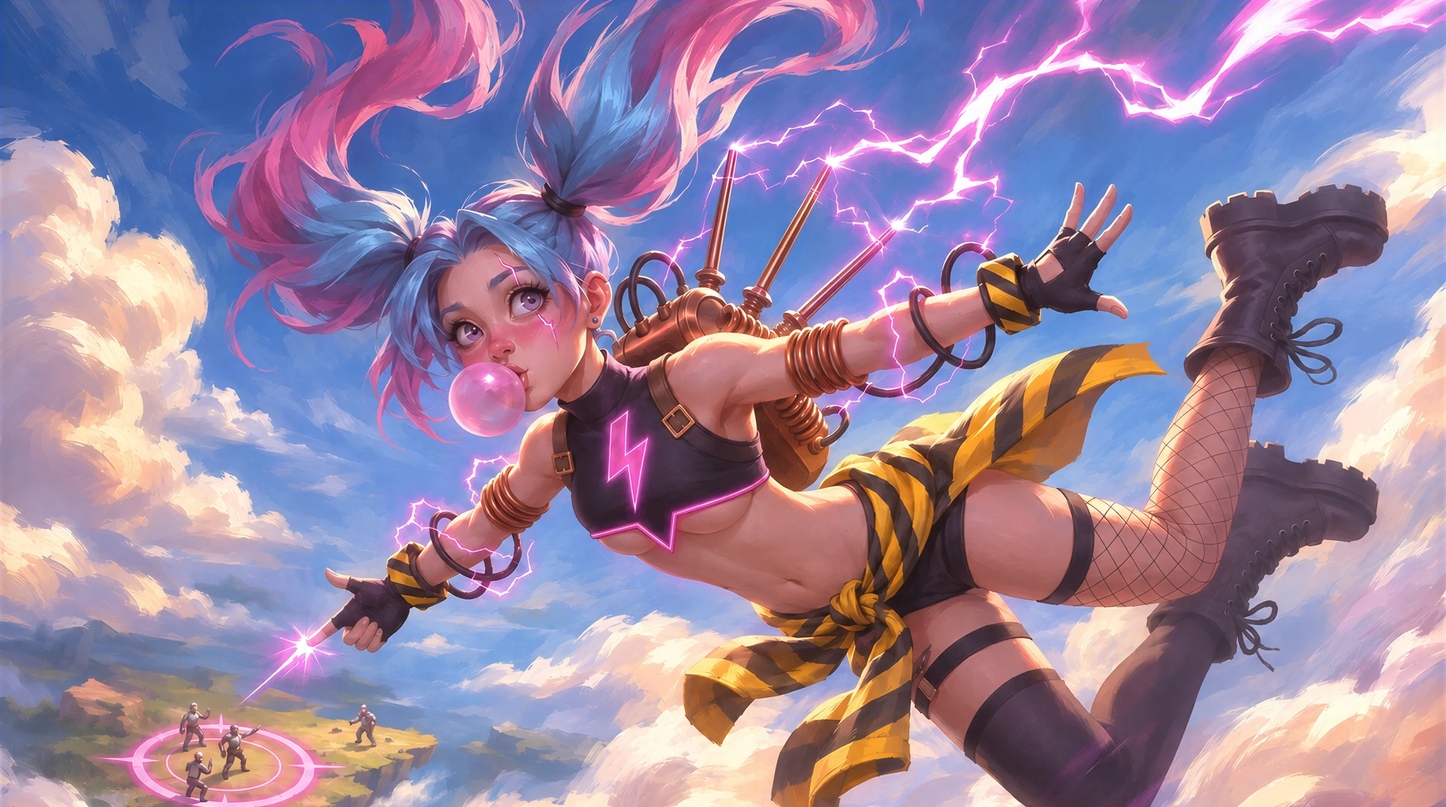
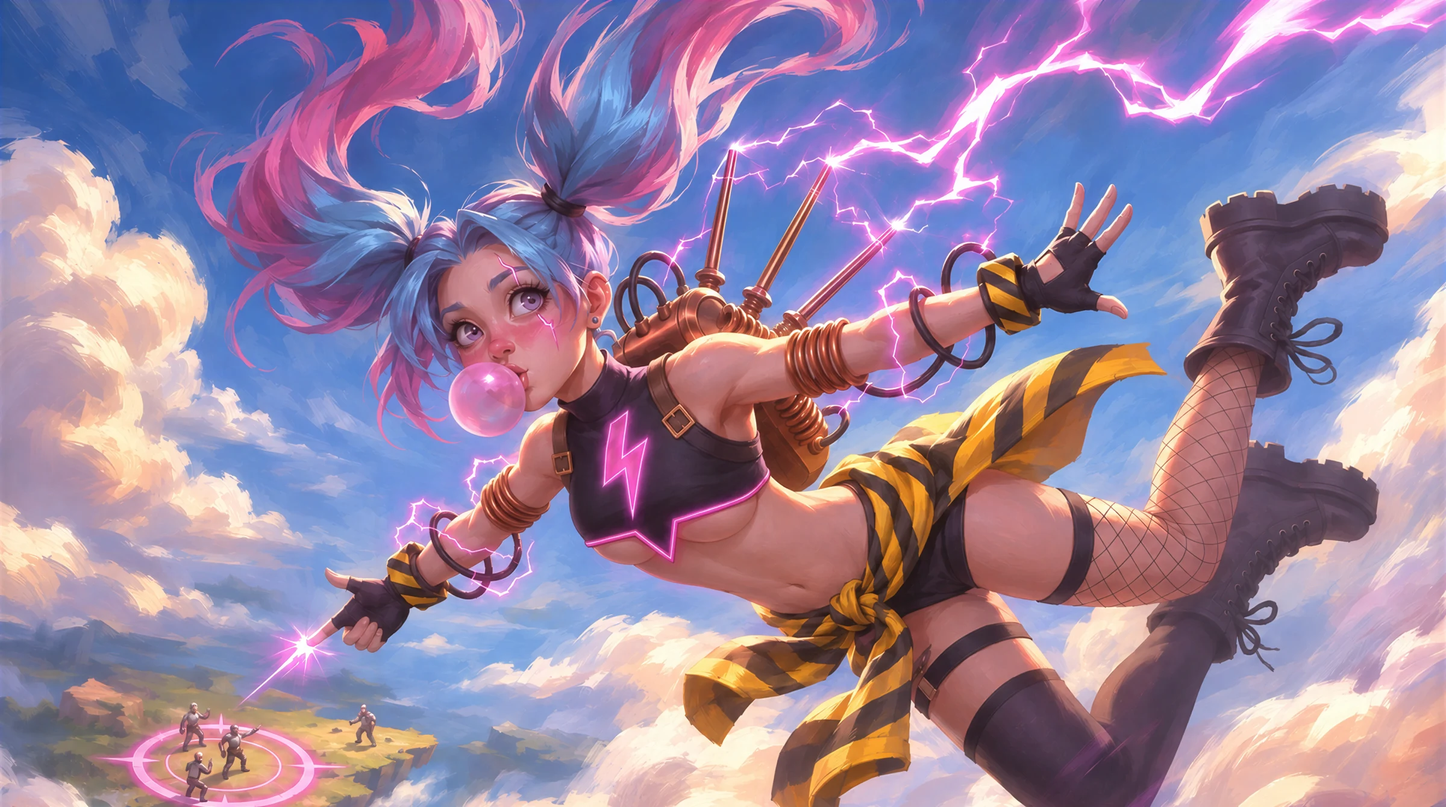
Hunter splash: Sparkle bust +5% (A, owner 11-14)
Claude-Session: https://claude.ai/code/session_01Fa986kEoxoUbsf7VZzVwQa

Changed region(s): [[0.375, 0.5201, 0.5312, 0.7343]]

diff --git a/presskit.html b/presskit.html
@@ -101,19 +101,19 @@
         </div>
         <h2>Hunter art</h2>
         <div class="pk-grid">
-          <a href="assets/img/hunters/lisette-2400.webp?v=2026-11-14x28" target="_blank"><img src="assets/img/hunters/lisette-960.webp?v=2026-11-14x28" alt="Lace splash art" loading="lazy"><span class="pk-cap">Lace</span></a>
-          <a href="assets/img/hunters/breaker-2400.webp?v=2026-11-14x28" target="_blank"><img src="assets/img/hunters/breaker-960.webp?v=2026-11-14x28" alt="Albert splash art" loading="lazy"><span class="pk-cap">Albert</span></a>
-          <a href="assets/img/hunters/vex-2400.webp?v=2026-11-14x28" target="_blank"><img src="assets/img/hunters/vex-960.webp?v=2026-11-14x28" alt="Vex splash art" loading="lazy"><span class="pk-cap">Vex</span></a>
-          <a href="assets/img/hunters/kael-2400.webp?v=2026-11-14x28" target="_blank"><img src="assets/img/hunters/kael-960.webp?v=2026-11-14x28" alt="Kael splash art" loading="lazy"><span class="pk-cap">Kael</span></a>
-          <a href="assets/img/hunters/claire-2400.webp?v=2026-11-14x28" target="_blank"><img src="assets/img/hunters/claire-960.webp?v=2026-11-14x28" alt="Neve splash art" loading="lazy"><span class="pk-cap">Neve</span></a>
-          <a href="assets/img/hunters/cinder-2400.webp?v=2026-11-14x28" target="_blank"><img src="assets/img/hunters/cinder-960.webp?v=2026-11-14x28" alt="Cinder splash art" loading="lazy"><span class="pk-cap">Cinder</span></a>
-          <a href="assets/img/hunters/tarek-2400.webp?v=2026-11-14x28" target="_blank"><img src="assets/img/hunters/tarek-960.webp?v=2026-11-14x28" alt="Tenzo splash art" loading="lazy"><span class="pk-cap">Tenzo</span></a>
-          <a href="assets/img/hunters/ryzz-2400.webp?v=2026-11-14x28" target="_blank"><img src="assets/img/hunters/ryzz-960.webp?v=2026-11-14x28" alt="Sparkle splash art" loading="lazy"><span class="pk-cap">Sparkle</span></a>
-          <a href="assets/img/hunters/grimble-2400.webp?v=2026-11-14x28" target="_blank"><img src="assets/img/hunters/grimble-960.webp?v=2026-11-14x28" alt="Grimble splash art" loading="lazy"><span class="pk-cap">Grimble</span></a>
-          <a href="assets/img/hunters/pip-2400.webp?v=2026-11-14x28" target="_blank"><img src="assets/img/hunters/pip-960.webp?v=2026-11-14x28" alt="Meeko splash art" loading="lazy"><span class="pk-cap">Meeko</span></a>
-          <a href="assets/img/hunters/sable-2400.webp?v=2026-11-14x28" target="_blank"><img src="assets/img/hunters/sable-960.webp?v=2026-11-14x28" alt="Sable splash art" loading="lazy"><span class="pk-cap">Sable</span></a>
-          <a href="assets/img/hunters/gill-2400.webp?v=2026-11-14x28" target="_blank"><img src="assets/img/hunters/gill-960.webp?v=2026-11-14x28" alt="Gill splash art" loading="lazy"><span class="pk-cap">Gill</span></a>
-          <a href="assets/img/hunters/motley-2400.webp?v=2026-11-14x28" target="_blank"><img src="assets/img/hunters/motley-960.webp?v=2026-11-14x28" alt="Motley splash art" loading="lazy"><span class="pk-cap">Motley</span></a>
+          <a href="assets/img/hunters/lisette-2400.webp?v=2026-11-14x45" target="_blank"><img src="assets/img/hunters/lisette-960.webp?v=2026-11-14x45" alt="Lace splash art" loading="lazy"><span class="pk-cap">Lace</span></a>
+          <a href="assets/img/hunters/breaker-2400.webp?v=2026-11-14x45" target="_blank"><img src="assets/img/hunters/breaker-960.webp?v=2026-11-14x45" alt="Albert splash art" loading="lazy"><span class="pk-cap">Albert</span></a>
+          <a href="assets/img/hunters/vex-2400.webp?v=2026-11-14x45" target="_blank"><img src="assets/img/hunters/vex-960.webp?v=2026-11-14x45" alt="Vex splash art" loading="lazy"><span class="pk-cap">Vex</span></a>
+          <a href="assets/img/hunters/kael-2400.webp?v=2026-11-14x45" target="_blank"><img src="assets/img/hunters/kael-960.webp?v=2026-11-14x45" alt="Kael splash art" loading="lazy"><span class="pk-cap">Kael</span></a>
+          <a href="assets/img/hunters/claire-2400.webp?v=2026-11-14x45" target="_blank"><img src="assets/img/hunters/claire-960.webp?v=2026-11-14x45" alt="Neve splash art" loading="lazy"><span class="pk-cap">Neve</span></a>
+          <a href="assets/img/hunters/cinder-2400.webp?v=2026-11-14x45" target="_blank"><img src="assets/img/hunters/cinder-960.webp?v=2026-11-14x45" alt="Cinder splash art" loading="lazy"><span class="pk-cap">Cinder</span></a>
+          <a href="assets/img/hunters/tarek-2400.webp?v=2026-11-14x45" target="_blank"><img src="assets/img/hunters/tarek-960.webp?v=2026-11-14x45" alt="Tenzo splash art" loading="lazy"><span class="pk-cap">Tenzo</span></a>
+          <a href="assets/img/hunters/ryzz-2400.webp?v=2026-11-14x45" target="_blank"><img src="assets/img/hunters/ryzz-960.webp?v=2026-11-14x45" alt="Sparkle splash art" loading="lazy"><span class="pk-cap">Sparkle</span></a>
+          <a href="assets/img/hunters/grimble-2400.webp?v=2026-11-14x45" target="_blank"><img src="assets/img/hunters/grimble-960.webp?v=2026-11-14x45" alt="Grimble splash art" loading="lazy"><span class="pk-cap">Grimble</span></a>
+          <a href="assets/img/hunters/pip-2400.webp?v=2026-11-14x45" target="_blank"><img src="assets/img/hunters/pip-960.webp?v=2026-11-14x45" alt="Meeko splash art" loading="lazy"><span class="pk-cap">Meeko</span></a>
+          <a href="assets/img/hunters/sable-2400.webp?v=2026-11-14x45" target="_blank"><img src="assets/img/hunters/sable-960.webp?v=2026-11-14x45" alt="Sable splash art" loading="lazy"><span class="pk-cap">Sable</span></a>
+          <a href="assets/img/hunters/gill-2400.webp?v=2026-11-14x45" target="_blank"><img src="assets/img/hunters/gill-960.webp?v=2026-11-14x45" alt="Gill splash art" loading="lazy"><span class="pk-cap">Gill</span></a>
+          <a href="assets/img/hunters/motley-2400.webp?v=2026-11-14x45" target="_blank"><img src="assets/img/hunters/motley-960.webp?v=2026-11-14x45" alt="Motley splash art" loading="lazy"><span class="pk-cap">Motley</span></a>
         </div>
         <h2>Boki art</h2>
         <div class="pk-grid pk-grid-boki" id="pk-boki" hidden></div>
@@ -151,7 +151,7 @@
   <div class="consent-b"><button class="btn btn-glass btn-sm" type="button" data-no>Decline</button><button class="btn btn-solid btn-sm" type="button" data-yes>Accept</button></div>
 </div>
 
-<script src="assets/site.js?v=278"></script>
+<script src="assets/site.js?v=279"></script>
 <script src="assets/signup.js?v=1"></script>
 <script src="/assets/topbar.js?v=6" defer></script>
 </body>

diff --git a/index.html b/index.html
@@ -170,7 +170,7 @@
       <button class="bk-arrow prev h-arrow" type="button" id="h-prev" aria-label="Previous Hunter"><svg viewBox="0 0 24 24" aria-hidden="true"><path d="M15 5l-7 7 7 7" fill="none" stroke="currentColor" stroke-width="2.6" stroke-linecap="round" stroke-linejoin="round"/></svg></button>
       <button class="bk-arrow next h-arrow" type="button" id="h-next" aria-label="Next Hunter"><svg viewBox="0 0 24 24" aria-hidden="true"><path d="M9 5l7 7-7 7" fill="none" stroke="currentColor" stroke-width="2.6" stroke-linecap="round" stroke-linejoin="round"/></svg></button>
       <div class="bk-count h-count"><b id="h-n">01</b> / <span>13</span></div>
-      <div class="shot"><img data-zoom id="h-art" src="assets/img/hunters/ryzz-1600.webp?v=2026-11-14x28" srcset="assets/img/hunters/ryzz-960.webp?v=2026-11-14x28 960w, assets/img/hunters/ryzz-1600.webp?v=2026-11-14x28 1600w, assets/img/hunters/ryzz-2400.webp?v=2026-11-14x28 2400w" sizes="(max-width: 720px) 260vw, (max-width: 1000px) and (orientation: portrait) 150vw, (max-width: 1280px) 100vw, 1240px" alt="Sparkle, the Storm Chaser" loading="lazy"><button class="h-expand" type="button" id="h-expand" aria-label="View full art"><svg viewBox="0 0 24 24" fill="none" stroke="currentColor" stroke-width="2.2" stroke-linecap="round" stroke-linejoin="round" aria-hidden="true"><path d="M14 4h6v6M10 20H4v-6M20 4l-6.5 6.5M4 20l6.5-6.5"/></svg></button></div>
+      <div class="shot"><img data-zoom id="h-art" src="assets/img/hunters/ryzz-1600.webp?v=2026-11-14x45" srcset="assets/img/hunters/ryzz-960.webp?v=2026-11-14x45 960w, assets/img/hunters/ryzz-1600.webp?v=2026-11-14x45 1600w, assets/img/hunters/ryzz-2400.webp?v=2026-11-14x45 2400w" sizes="(max-width: 720px) 260vw, (max-width: 1000px) and (orientation: portrait) 150vw, (max-width: 1280px) 100vw, 1240px" alt="Sparkle, the Storm Chaser" loading="lazy"><button class="h-expand" type="button" id="h-expand" aria-label="View full art"><svg viewBox="0 0 24 24" fill="none" stroke="currentColor" stroke-width="2.2" stroke-linecap="round" stroke-linejoin="round" aria-hidden="true"><path d="M14 4h6v6M10 20H4v-6M20 4l-6.5 6.5M4 20l6.5-6.5"/></svg></button></div>
       <div class="info" aria-live="polite">
         <div class="role" id="h-role" data-role="Skirmisher">Skirmisher</div>
         <h3 id="h-name">Sparkle</h3>
@@ -289,7 +289,7 @@
   <symbol id="i-play" viewBox="0 0 24 24"><path d="M7 4.5v15a1 1 0 0 0 1.5.86l12.4-7.5a1 1 0 0 0 0-1.72L8.5 3.64A1 1 0 0 0 7 4.5Z"/></symbol>
 </svg>
 
-<script src="assets/site.js?v=278"></script>
+<script src="assets/site.js?v=279"></script>
 <script src="assets/signup.js?v=1"></script>
 <script src="/assets/topbar.js?v=6" defer></script>
 </body>

diff --git a/devlog.html b/devlog.html
@@ -62,7 +62,7 @@
       <article class="dl-post" id="hunter-kits">
         <time datetime="2026-11-09">November 9, 2026</time>
         <h2>Hunter kits are on the site</h2>
-        <a class="dl-img" href="index.html#hunters"><img src="assets/img/hunters/breaker-1600.webp?v=2026-11-14x28" width="1600" height="893" alt="Albert, the Barnacle Knight" loading="lazy"></a>
+        <a class="dl-img" href="index.html#hunters"><img src="assets/img/hunters/breaker-1600.webp?v=2026-11-14x45" width="1600" height="893" alt="Albert, the Barnacle Knight" loading="lazy"></a>
         <p>Tap Abilities on any Hunter to see their full kit: weapon, passive, dash, both abilities and their ultimate.</p>
         <p>The kits come straight from the game files, so they stay current as we tune each Hunter.</p>
       </article>
@@ -90,7 +90,7 @@
   <div class="consent-b"><button class="btn btn-glass btn-sm" type="button" data-no>Decline</button><button class="btn btn-solid btn-sm" type="button" data-yes>Accept</button></div>
 </div>
 
-<script src="assets/site.js?v=278"></script>
+<script src="assets/site.js?v=279"></script>
 <script src="assets/signup.js?v=1"></script>
 <script src="/assets/topbar.js?v=6" defer></script>
 </body>

diff --git a/assets/site.js b/assets/site.js
@@ -192,7 +192,7 @@ if (heroIn && !calm) {
 
 /* ---------- Hunters: pick a Mask ---------- */
 // [id, name, title, has an up-to-date in-game model, role (from the kit's role line in the game)]
-const ART_V = "2026-11-14x28"; // bump when a Hunter splash changes
+const ART_V = "2026-11-14x45"; // bump when a Hunter splash changes
 const HUNTERS = [
   ["ryzz", "Sparkle", "The Storm Chaser", true, "Skirmisher"],
   ["tarek", "Tenzo", "The Stone Seer", true, "Brawler"],

diff --git a/privacy.html b/privacy.html
@@ -99,7 +99,7 @@
   <div class="consent-b"><button class="btn btn-glass btn-sm" type="button" data-no>Decline</button><button class="btn btn-solid btn-sm" type="button" data-yes>Accept</button></div>
 </div>
 
-<script src="assets/site.js?v=278"></script>
+<script src="assets/site.js?v=279"></script>
 <script src="assets/signup.js?v=1"></script>
 <script src="/assets/topbar.js?v=6" defer></script>
 </body>
